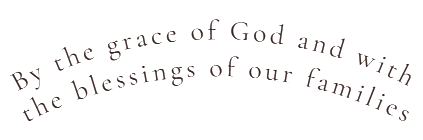
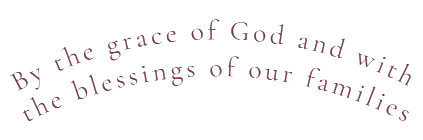
page1

diff --git a/index.html b/index.html
@@ -13,7 +13,7 @@
   <div class="scale-root">
     <div class="viewport">
 
-      <section class="page active">
+      <section class="page active" style="color: #875468;">
         <div class="reveal background" data-from="bottom"><img src="assets/p1bg2.png"/></div>
         <div class="reveal background" data-from="bottom"><img src="assets/p1bg.png"/></div>
 
@@ -33,6 +33,10 @@
             <span style="font-size: 20px; vertical-align: middle;">2026</span>
           </div>
           <div class="reveal" data-from="bottom" style="font-family: 'Cormorant Garamond', sans-serif; font-size: 12px; letter-spacing: 2px; margin-top: 2px;">AT 3:30 IN THE AFTERNOON</div>
+
+          <div class="reveal" data-from="bottom" style="font-family: 'LeJour', sans-serif; font-size: 23px; margin-top: 7%;">Ceremony and Reception</div>
+          <div class="reveal" data-from="bottom" style="font-family: 'Cormorant Garamond', sans-serif; font-size: 13px; letter-spacing: 2px; font-weight: bold;">JHAYMAR'S TREEHOUSE & EVENT PLACE</div>
+          <div class="reveal" data-from="bottom" style="font-family: 'Cormorant Garamond', sans-serif; font-size: 13px; letter-spacing: 2px; margin-top: 4px;">29 Gloria St. Brgy Gulod, Novaliches<br>Quezon City</div>
 
         </div>
       </section>

diff --git a/script.js b/script.js
@@ -10,7 +10,7 @@ function resetReveals(page) {
 
 function revealPage(page) {
   const items = page.querySelectorAll('.reveal');
-  const delay = 300;
+  const delay = 250;
 
   items.forEach((el, i) => {
     setTimeout(() => {

diff --git a/styles.css b/styles.css
@@ -85,7 +85,6 @@ body {
 
 /* Modular reveal elements */
 .reveal {
-  color: #372521;
   opacity: 0;
   transition:
     opacity 0.7s ease,
